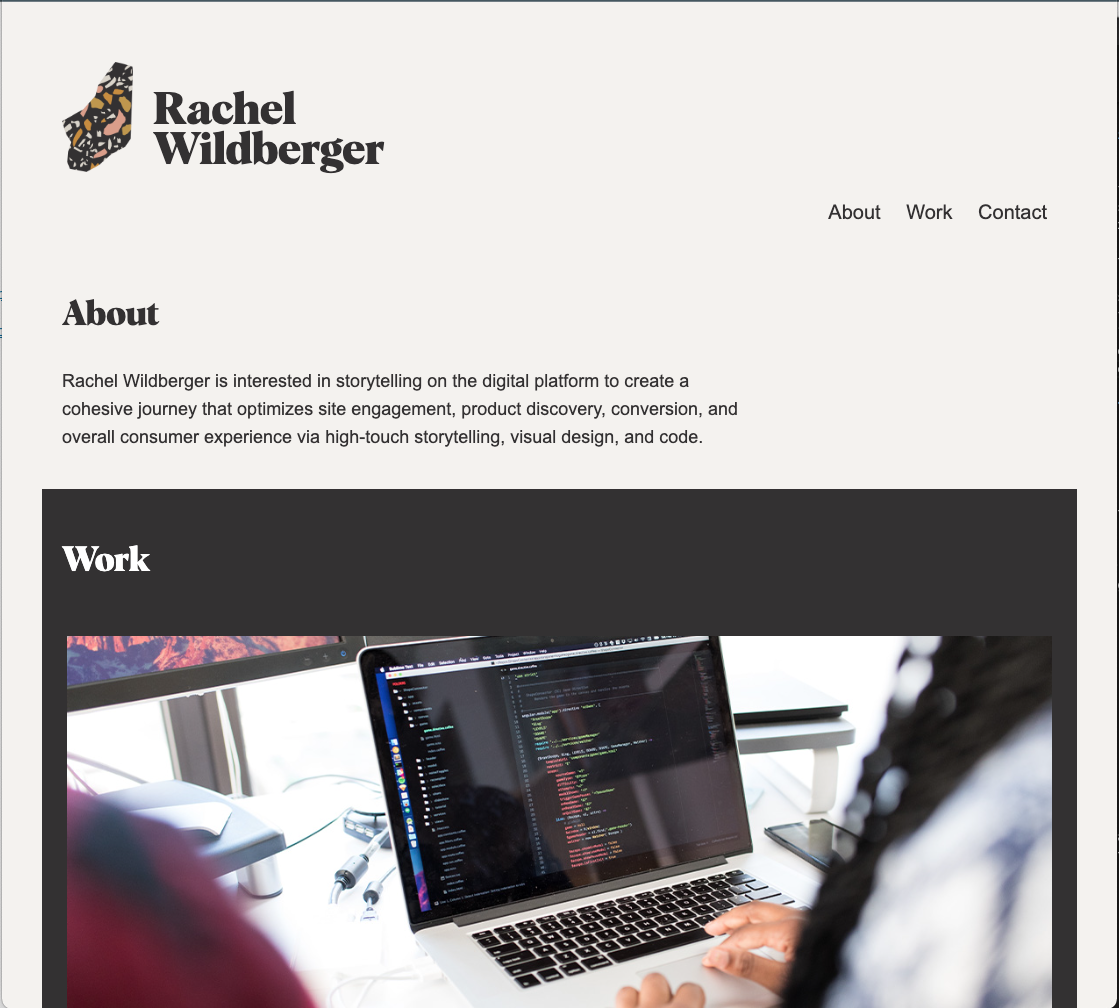
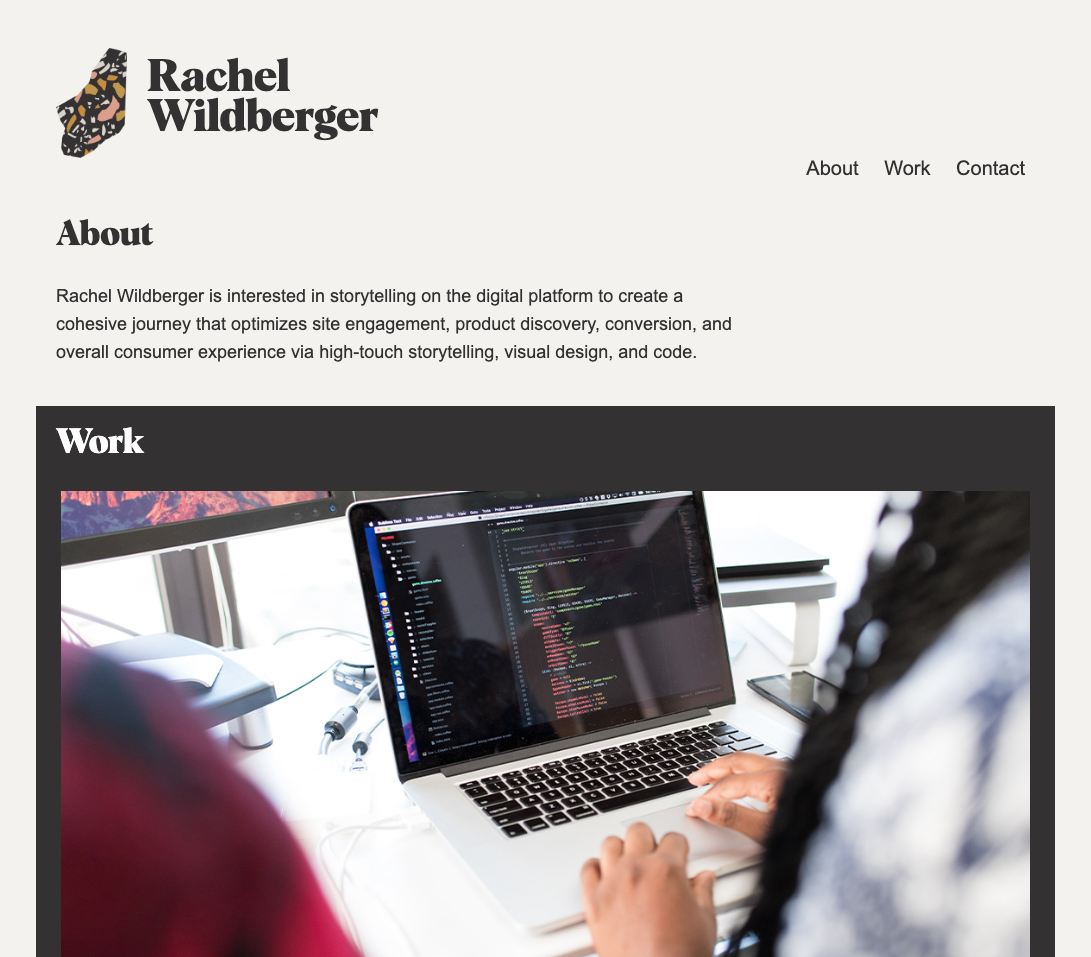
made edits to repo

diff --git a/assets/CSS/style.css b/assets/CSS/style.css
@@ -93,6 +93,7 @@ li a:hover {
 }
 
 #row {
+    margin-top: 10px;
     display: flex;
     flex-wrap: wrap;
     padding: 5px;
@@ -101,7 +102,6 @@ li a:hover {
 .main {
     float: center;
     width: 100%;
-
 }
 
 .main img {
@@ -184,6 +184,7 @@ a {
       flex-direction: column;
       margin: auto;
       text-align: center;
+      line-height: 30px;
   }
 }
 
